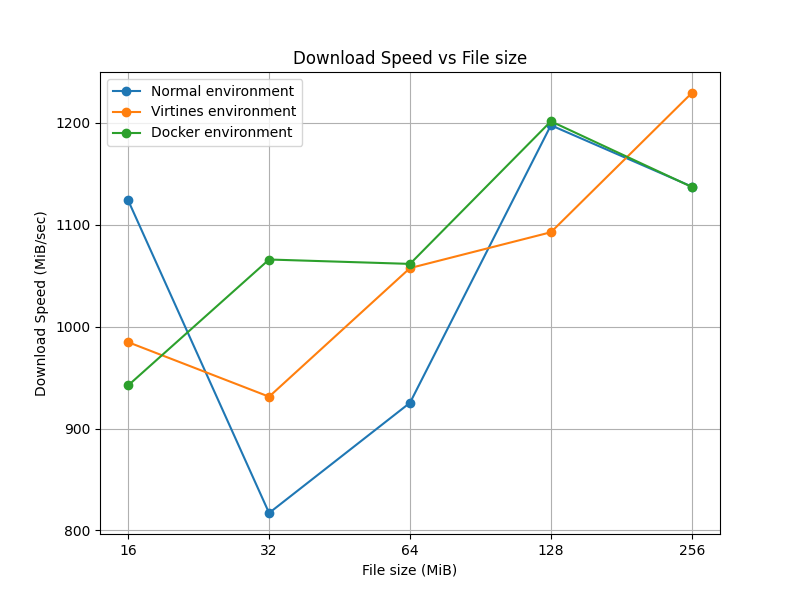
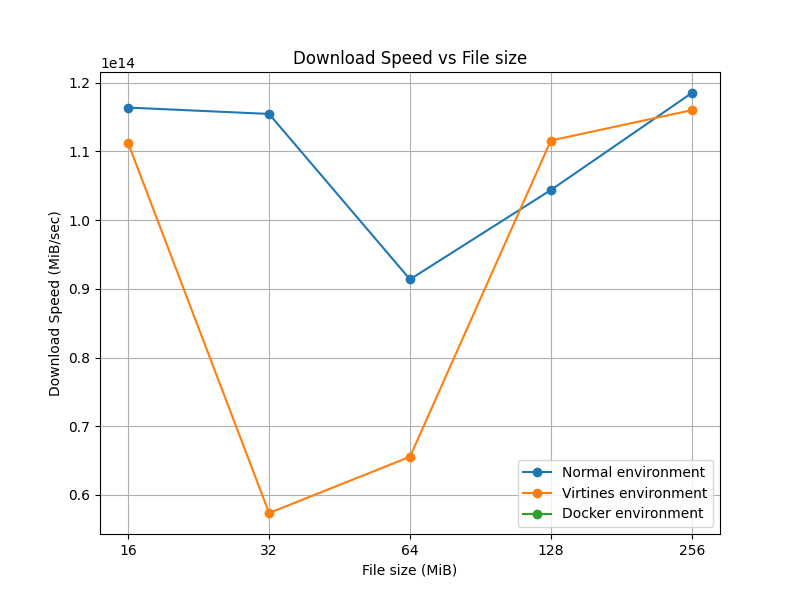
Final changes

diff --git a/network_speed.c b/network_speed.c
@@ -1,199 +1,17 @@
-#include <sys/socket.h>
-#include <sys/types.h>
-#include <netinet/in.h>
-#include <netdb.h>
 #include <stdio.h>
-#include <string.h>
 #include <stdlib.h>
-#include <unistd.h>
-#include <errno.h>
-#include <string.h>
-#include <errno.h>
-#include <arpa/inet.h>
-
-#include <string.h>
-#include <time.h> 
-
-#define MAX_LENGTH 256
-
-int ReadHttpStatus(int sock){
-    char c;
-    char buff[1024] = "", *ptr = buff + 1;
-    int bytes_received, status;
-    printf("Begin Response ..\n");
-    bytes_received = recv(sock, ptr, 1, 0);
-    while(bytes_received){
-        if(bytes_received==-1){
-            perror("ReadHttpStatus");
-            exit(1);
-        }
-
-        if ((ptr[-1] == '\r')  && (*ptr=='\n' ))
-            break;
-        ptr++;
-        bytes_received = recv(sock, ptr, 1, 0);
-    }
-    *ptr=0;
-    ptr=buff+1;
-
-    sscanf(ptr,"%*s %d ", &status);
-
-    printf("%s\n", ptr);
-    printf("status = %d\n", status);
-    printf("End Response ..\n");
-    return (bytes_received > 0)? status : 0;
-}
-
-//the only filed that it parsed is 'Content-Length' 
-int ParseHeader(int sock){
-    char c;
-    char buff[1024]="",*ptr=buff+4;
-    int bytes_received, status;
-    printf("Begin HEADER ..\n");
-    bytes_received = recv(sock, ptr, 1, 0);
-    while (bytes_received) {
-        if(bytes_received == -1){
-            perror("Parse Header");
-            exit(1);
-        }
-
-        if((ptr[-3]=='\r')  && (ptr[-2]=='\n' ) && (ptr[-1]=='\r')  && (*ptr=='\n' ))
-            break;
-        ptr++;
-        bytes_received = recv(sock, ptr, 1, 0);
-    }
-
-    *ptr=0;
-    ptr=buff+4;
-    //printf("%s",ptr);
-
-    if(bytes_received){
-        ptr=strstr(ptr,"Content-Length:");
-        if(ptr) {
-            sscanf(ptr,"%*s %d",&bytes_received);
-        } else
-            bytes_received = -1; // Unknown size
-
-       printf("Content-Length: %d\n",bytes_received);
-    }
-    printf("End HEADER ..\n");
-    return  bytes_received ;
-
-}
-
-void printHelp(char *binName) {
-    printf("Usage: %s <IP> <port> <PathToFile> <executionEnvironment> <destFile>\n", binName);
-    printf("The destination file can be skipped, so that we just store the file in memory measuring the download time.\n");
-    printf("Also remember to run \"python3 -m http.server\" in the folder you want to create the file server!\n");
-
-}
 
 int main(int argc, char **argv) {
-    char domain[MAX_LENGTH];
-    int port;
-    char path[MAX_LENGTH];
-    char dest_file[MAX_LENGTH];
-    if (argc >= 5) {
-        snprintf(domain, strlen(argv[1]) + 1, "%s", argv[1]);
-        port = atoi(argv[2]);
-        snprintf(path, strlen(argv[3]) + 1, "%s", argv[3]);
-        printf("Using http://%s:%d/%s as file path.\n", domain, port, path);
-        if (argc > 5) {
-            snprintf(dest_file, strlen(argv[5]) + 1, "%s", argv[5]);
-            printf("Using %s as target file.\n", dest_file);
-        }
+    char cmd[256];
+    if (argc == 4) {
+        sprintf(cmd, "python3 %s/measure_network.py %s %s", argv[3], argv[1], argv[2]);
     } else {
-        printHelp(argv[0]);
-        return 0;
+        sprintf(cmd, "python3 ./measure_network.py %s %s", argv[1], argv[2]);
     }
-
-    int sock, bytes_received;  
-    char send_data[1024], recv_data[1024], *p;
-    struct sockaddr_in server_addr;
-    struct hostent *he;
-
-
-    he = gethostbyname(domain);
-    if (he == NULL){
-       herror("gethostbyname");
-       exit(1);
+    int status = system(cmd);
+    if (status == -1) {
+        printf("Command execution of the network tests through Python3 failed.\n");
+        return 1;
     }
-
-    if ((sock = socket(AF_INET, SOCK_STREAM, 0))== -1){
-       perror("Socket");
-       exit(1);
-    }
-    server_addr.sin_family = AF_INET;     
-    server_addr.sin_port = htons(port);
-    server_addr.sin_addr = *((struct in_addr *)he->h_addr);
-    bzero(&(server_addr.sin_zero),8); 
-
-    printf("Connecting ...\n");
-    if (connect(sock, (struct sockaddr *)&server_addr,sizeof(struct sockaddr)) == -1){
-       perror("Connect");
-       exit(1); 
-    }
-
-    printf("Sending data ...\n");
-
-    snprintf(send_data, sizeof(send_data), "GET /%s HTTP/1.1\r\nHost: %s\r\n\r\n", path, domain);
-
-    if(send(sock, send_data, strlen(send_data), 0)==-1){
-        perror("send");
-        exit(2); 
-    }
-    printf("Data sent.\n");  
-
-    printf("Receiving data...\n\n");
-
-    int contentLength;
-    int status = ReadHttpStatus(sock);
-
-    if (status != 0 && status != 404 && (contentLength = ParseHeader(sock))) {
-        int bytes = 0;
-        FILE* fd;
-        clock_t t;
-        if (argc > 5) {
-            fd = fopen(dest_file, "wb");
-            printf("Saving data to %s file...\n\n", dest_file);
-        } else {
-            printf("Downloading file to memory without storing it...\n");
-        }
-
-        t = clock(); // Start time
-        bytes_received = recv(sock, recv_data, 1024, 0);
-        while (bytes_received) {
-            if (bytes_received == -1) {
-                perror("receive");
-                exit(3);
-            }
-
-            if (argc > 5)
-                fwrite(recv_data, 1, bytes_received, fd);
-            bytes += bytes_received;
-            printf("Bytes received: %d from %d (%.2f %%)\n", bytes, contentLength, ((float) bytes)/contentLength * 100);
-            bytes_received = recv(sock, recv_data, 1024, 0);
-
-            if (bytes == contentLength)
-                break;
-        }
-        t = clock() - t; // Final time
-        // Convert time to seconds
-        double time_taken = ((double) t)/CLOCKS_PER_SEC; // in seconds
-        float MiBs = ((float) contentLength)/(1024 * 1024);
-        float bps = ((float) contentLength)/time_taken;
-        float MiBps = ((float) contentLength)/(time_taken * 1024 * 1024);
-        printf("Downloaded file of %d bytes (%.2f MiBs) in %f seconds (%.2f Bps or %.2f MiBps) in the %s environment.\n", contentLength, MiBs, time_taken, bps, MiBps, argv[4]);
-
-        if (argc > 5)
-            fclose(fd);
-    } else if (status == 404) {
-        printf("Error! The file was not found in the server.\n");
-    } else if (status == 0) {
-        printf("There was an unknown error when trying to download the file from the server.\n");
-    }
-
-    close(sock);
-    printf("\n\nDone.\n\n");
     return 0;
 }

diff --git a/memory_speed.c b/memory_speed.c
@@ -2,6 +2,8 @@
 #include <stdlib.h>
 #include <time.h>
 
+int ATTEMPTS = 10;
+
 void writeBigVariable(int size, char *variable) {
     // Write a character to each position of the array
     for (int i = 0; i < size; i++) {
@@ -30,21 +32,27 @@ int main(int argc, char** argv) {
     int size = size_MiB * 1024 * 1024; // Convert to MiB
     char *memoryAllocation = malloc(size);
 
-    // Create file
+    // Create memory variable
+    double time_taken = 0;
     printf("Creating a memory variable of %d MiB (%d bytes) from %s env...\n", size_MiB, size, argv[2]);
-    t = clock(); // Start time
-    writeBigVariable(size, memoryAllocation);
-    t = clock() - t; // Final time
-    // Convert time to seconds
-    double time_taken = ((double) t)/CLOCKS_PER_SEC; // in seconds
+    for (int i = 0; i < ATTEMPTS; i++) {
+        t = clock(); // Start time
+        writeBigVariable(size, memoryAllocation);
+        t = clock() - t; // Final time
+        // Convert time to seconds and save as average
+        time_taken += (((double) t)/CLOCKS_PER_SEC)/ATTEMPTS; // in seconds
+    }
     printf("A memory variable of %d MiB has been succesfully written in %f seconds (%f MiB/sec) in %s env!\n", size_MiB, time_taken, size_MiB/time_taken, argv[2]);
 
-    // Read file
+    // Read memory variable
+    time_taken = 0;
     printf("Reading the created memory variable of %d MiB (%d bytes) from %s env...\n", size_MiB, size, argv[2]);
-    t = clock(); // Start time
-    readBigVariable(size, memoryAllocation);
-    t = clock() - t; // Final time
-    // Convert time to seconds
-    time_taken = ((double) t)/CLOCKS_PER_SEC; // in seconds
+    for (int i = 0; i < ATTEMPTS; i++) {
+        t = clock(); // Start time
+        readBigVariable(size, memoryAllocation);
+        t = clock() - t; // Final time
+        // Convert time to seconds and save as average
+        time_taken += (((double) t)/CLOCKS_PER_SEC)/ATTEMPTS; // in seconds
+    }
     printf("The memory variable of %d MiB has been succesfully read in %f seconds (%f MiB/sec) in %s env!\n", size_MiB, time_taken, size_MiB/time_taken, argv[2]);
 }

diff --git a/disk_speed.c b/disk_speed.c
@@ -2,6 +2,8 @@
 #include <stdlib.h>
 #include <time.h>
 
+int ATTEMPTS = 10;
+
 void createTestFile(int size) {
     FILE *fptr;
 
@@ -54,20 +56,26 @@ int main(int argc, char** argv) {
     int size = size_MiB * 1024 * 1024; // Convert to MiB
 
     // Create file
+    double time_taken = 0;
     printf("Creating a file of %d MiB (%d bytes) from %s env...\n", size_MiB, size, argv[2]);
-    t = clock(); // Start time
-    createTestFile(size);
-    t = clock() - t; // Final time
-    // Convert time to seconds
-    double time_taken = ((double) t)/CLOCKS_PER_SEC; // in seconds
+    for (int i = 0; i < ATTEMPTS; i++) {
+        t = clock(); // Start time
+        createTestFile(size);
+        t = clock() - t; // Final time
+        // Convert time to seconds and save as average
+        time_taken += (((double) t)/CLOCKS_PER_SEC)/ATTEMPTS; // in seconds
+    }
     printf("A file of %d MiB has been succesfully written in %f seconds (%f MiB/sec) in %s env!\n", size_MiB, time_taken, size_MiB/time_taken, argv[2]);
 
     // Read file
+    time_taken = 0;
     printf("Reading the created file of %d MiB (%d bytes) from %s env...\n", size_MiB, size, argv[2]);
-    t = clock(); // Start time
-    readTestFile(size);
-    t = clock() - t; // Final time
-    // Convert time to seconds
-    time_taken = ((double) t)/CLOCKS_PER_SEC; // in seconds
+    for (int i = 0; i < ATTEMPTS; i++) {
+        t = clock(); // Start time
+        readTestFile(size);
+        t = clock() - t; // Final time
+        // Convert time to seconds and save as average
+        time_taken += (((double) t)/CLOCKS_PER_SEC)/ATTEMPTS; // in seconds
+    }
     printf("The file of %d MiB has been succesfully read in %f seconds (%f MiB/sec) in %s env!\n", size_MiB, time_taken, size_MiB/time_taken, argv[2]);
 }

diff --git a/measure_network.py b/measure_network.py
@@ -1,0 +1,29 @@
+#!/usr/bin/python3
+import urllib3
+import time
+import sys
+
+chunk_size = 32 * 1024
+number_of_attempts = 10
+http = urllib3.PoolManager()
+averages = {}
+filesize = int(sys.argv[1])
+averages[filesize] = 0
+for attempts in range(number_of_attempts):
+    r = http.request('GET', f"https://srv.ramonhg.es/files/{filesize}MB", preload_content=False)
+
+    start_time = time.time()
+    size = 0
+    while True:
+        data = r.read(chunk_size)
+        size += len(data)
+        if not data:
+            stop_time = time.time()
+            break
+
+    r.release_conn()
+    total_time = stop_time - start_time
+    total_speed_MiBsec = size/total_time
+    averages[filesize] += total_time/number_of_attempts
+total_speed_MiBsec = size/total_time
+print(f"Downloaded file of {size} bytes ({int(size/(1024 * 1024))} MiBs) in {averages[filesize]} seconds ({'{:.2f}'.format(size/averages[filesize])} Bps or {'{:.2f}'.format((size * 1024 * 1024)/averages[filesize])} MiBps) in the {sys.argv[2]} environment.")

diff --git a/cleanDataDisk.py b/cleanDataDisk.py
@@ -20,7 +20,8 @@ print("Processing logs...")
 values = []
 for stdout in [stdout1, stdout2]:
     for line in stdout.decode().split('\n'):
-        if "sec" in line:
+        if "MiB/sec" in line:
+            print(line)
             seconds = float(cut_str(line, " in ", " seconds"))
             env = cut_str(line, ") in ", " env!")
             speed = float(cut_str(line, "seconds (", " MiB/sec)"))
@@ -67,7 +68,7 @@ for type in ['read', 'write']:
     plt.plot(file_sizes, write_speed_docker if type == "write" else read_speed_docker, marker='o', label='Docker environment')
     plt.xlabel("File size (MiB)")
     plt.ylabel("Read Speed" if type == "read" else "Write Speed")
-    plt.title("Speed vs File size")
+    plt.title(("Disk Read Speed" if type == "read" else "Disk Write Speed")+" vs File size")
     plt.legend()
     plt.grid(True)
     path = "disk_read_speeds.png" if type == "read" else "disk_write_speeds.png"

diff --git a/cleanDataMem.py b/cleanDataMem.py
@@ -67,7 +67,7 @@ for type in ['read', 'write']:
     plt.plot(memory_var_sizes, write_speed_docker if type == "write" else read_speed_docker, marker='o', label='Docker environment')
     plt.xlabel("Memory variable size (MiB)")
     plt.ylabel("Read Speed" if type == "read" else "Write Speed")
-    plt.title("Speed vs File size")
+    plt.title(("Memory Read Speed" if type == "read" else "Memory Write Speed")+" vs Memory variable size")
     plt.legend()
     plt.grid(True)
     path = "mem_read_speeds.png" if type == "read" else "mem_write_speeds.png"
